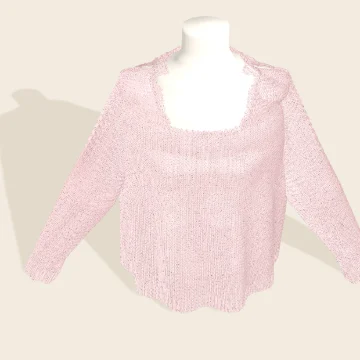
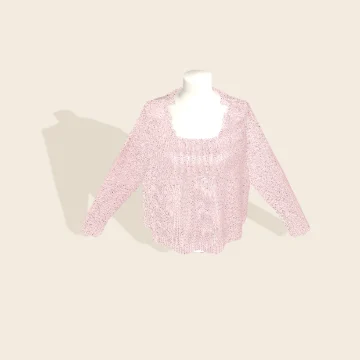
Knit top: the stand raised for the sleeves too - a cuff hung just under the table

diff --git a/src/features/yarn3d/worn.ts b/src/features/yarn3d/worn.ts
@@ -593,7 +593,9 @@ function knitFoldForm(p: PlanInput, pp: Plan): Worn {
 function knitTopForm(p: PlanInput, pp: Plan): Worn {
   // (the body stands high enough for the top's whole length to hang above the table)
   const g = pp.g, K = knitTop(p, g), out: FormCourse[] = [], r = Math.max(6, K.bust / 6.15), below = pp.rows.filter(x => (x.part === "body" || x.part === "rim") && !/^목둘레/.test(x.label)).length;
-  const bust = Math.max(2.3 * r + 1, K.AR * g.h * .95 + below * g.h + 2 - 1.04 * r), body = bodyOf(r, bust), off = .7;
+  // (and the sleeves, hanging down their line from the underarm, above it too)
+  const sleeveDrop = pp.rows.filter(x => x.part === "strap" && x.n > 0).length * g.h * .95 + 4;
+  const bust = Math.max(2.3 * r + 1, K.AR * g.h * .95 + Math.max(below * g.h, sleeveDrop) + 2 - 1.04 * r), body = bodyOf(r, bust), off = .7;
   const panel = pp.rows.filter(x => x.part === "panel" && x.n > 0 && /단$/.test(x.label)), shTop = bust + 1.04 * r, rh = g.h * .95;
   // a panel's row: its middle at the back (a = 0) or the front (a = PI), on the body from side to side; wider than
   // that it lies looser, in soft folds (`gap`: the front's neck, stitches left out at its middle)
